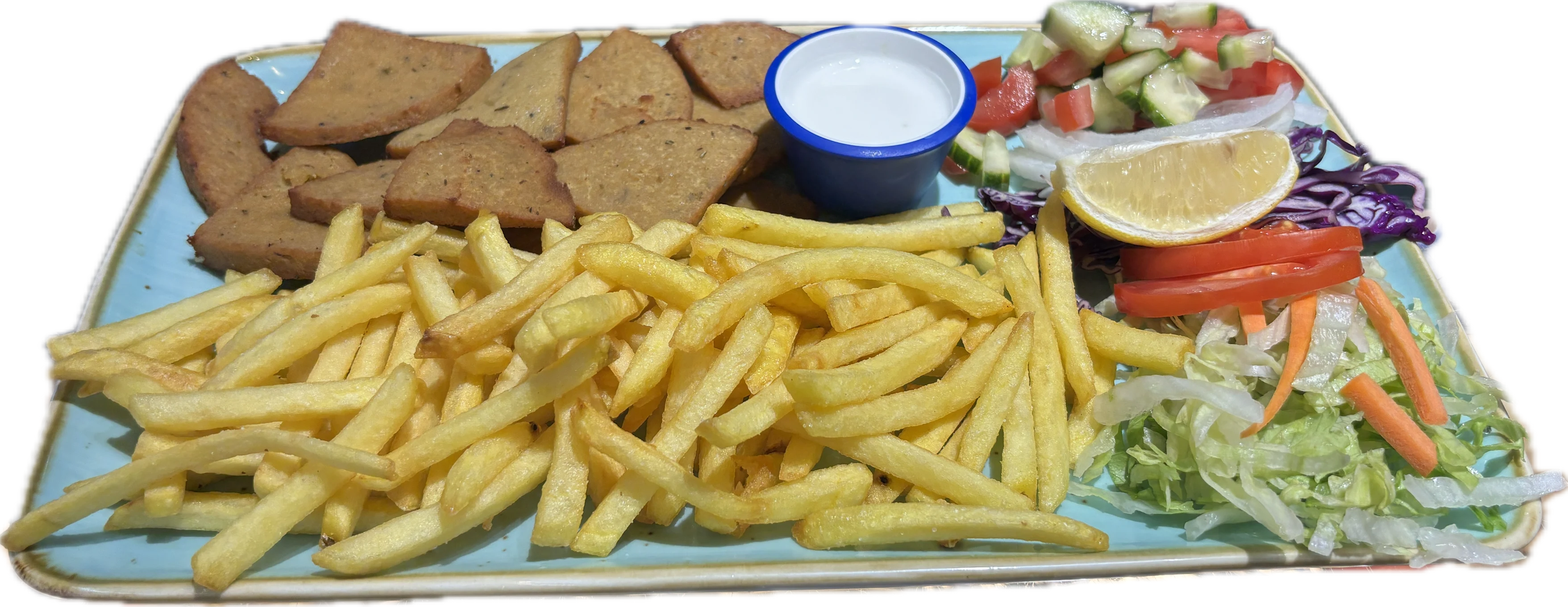
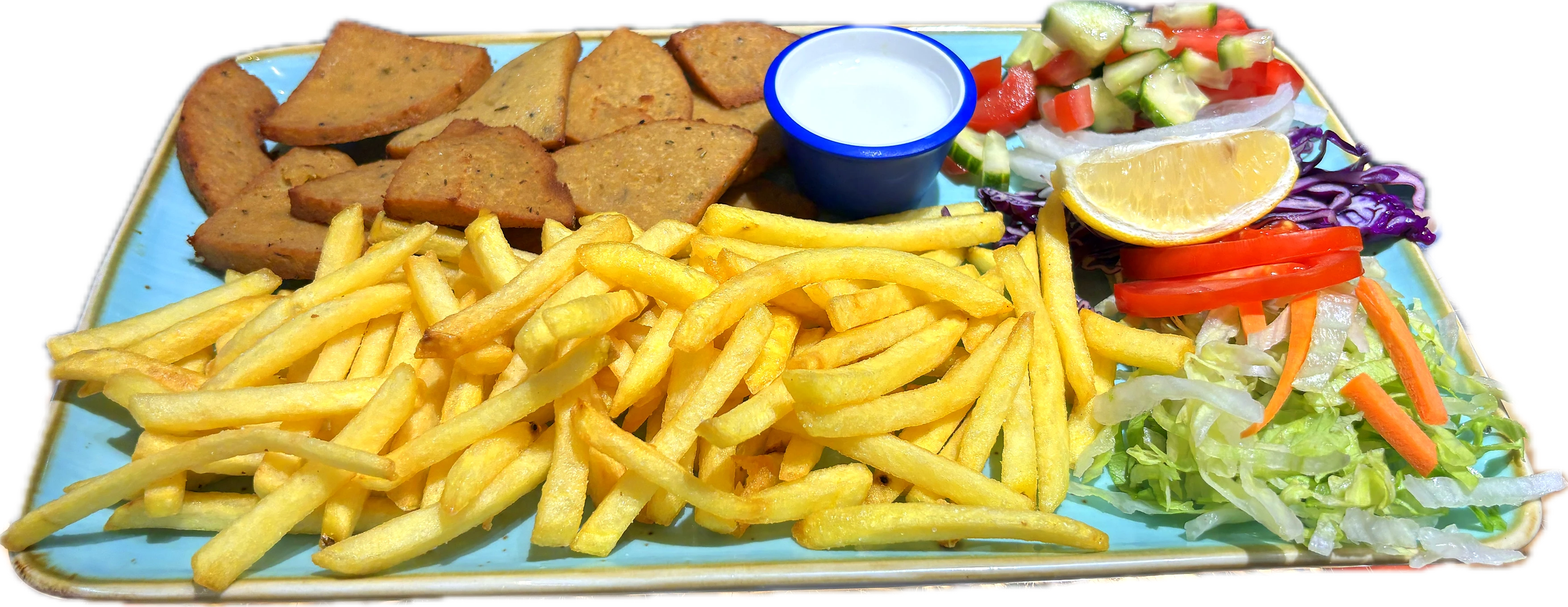
board2: Seitan Teller — Bild gesättigt, schärfer, kleiner skaliert

diff --git a/board2.html b/board2.html
@@ -206,7 +206,7 @@ const SLIDES=[
         {n:"Falafel-Sandwich",nr:"11",p:"7",d:"Falafel · Salat · Soße · Fladenbrot",img:"Falafel_Sandwich.webp",e:"🥙",imgsz:1.10},
         {n:"Seitan-Sandwich",nr:"13",p:"7,50",d:"Seitan · Salat · Soße · Fladenbrot",img:"Seitan_Sandwich.webp",e:"🌱",imgsz:1.10},
         {n:"Falafel-Teller",nr:"12",p:"12",d:"Falafel · Salat · Beilagen · Soße",img:"Falafel_Teller.webp",e:"🧆",imgsz:1.10},
-        {n:"Seitan-Teller",nr:"14",p:"11,50",d:"Seitan · Salat · Beilagen · Soße",img:"Seitan_Teller.webp",e:"🌿",imgsz:1.10},
+        {n:"Seitan-Teller",nr:"14",p:"11,50",d:"Seitan · Salat · Beilagen · Soße",img:"Seitan_Teller.webp",e:"🌿",imgsz:0.88},
       ]},
     ]
   },
